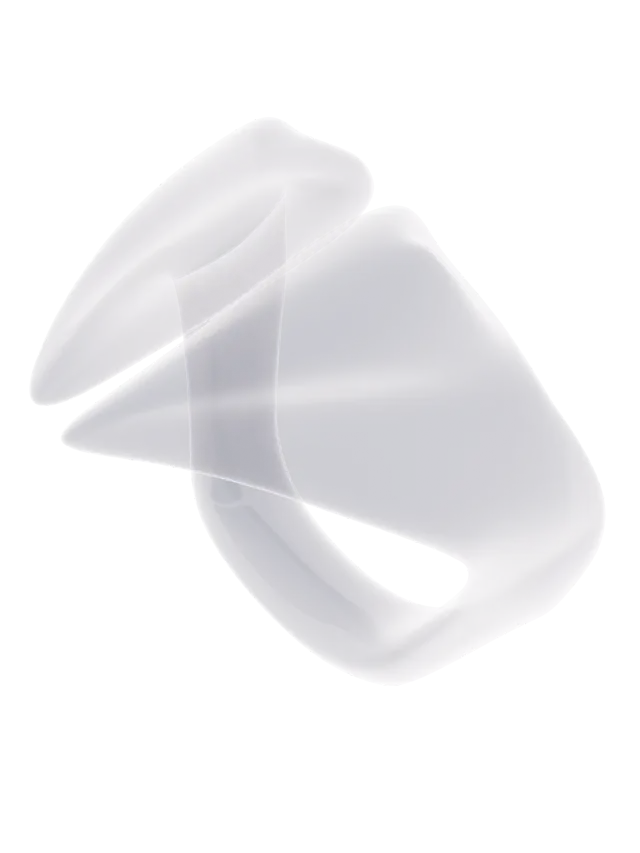
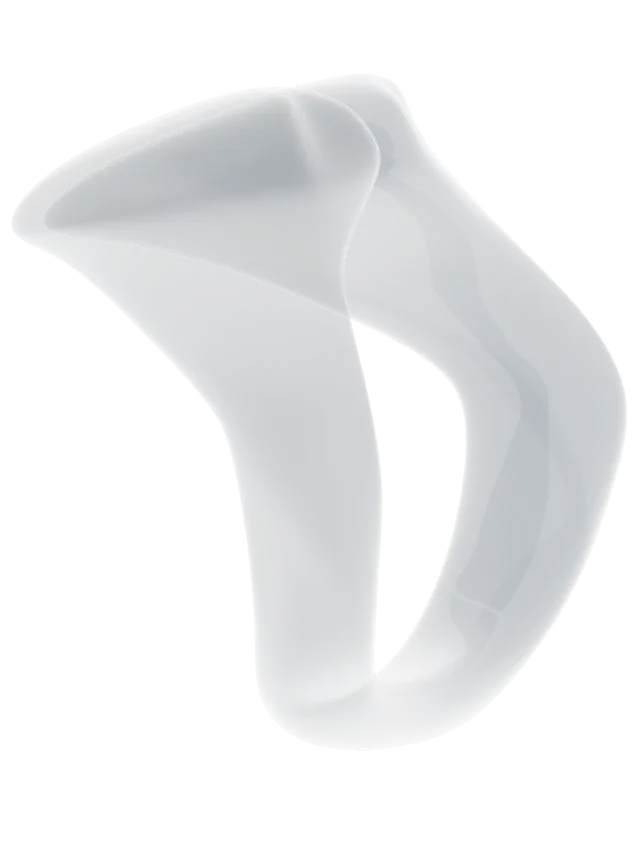
X-ray backdrops: new shots for all ten products, anchored to the model (top edge a share of its width above it), fitted to the screen down to 375px, uncropped on phones, at 0.8 opacity

Changed region(s): [[0.0312, 0.0914, 1.0, 0.8535]]

diff --git a/css/style.css b/css/style.css
@@ -2450,34 +2450,34 @@ body:has(.product-select-bar[hidden]) .product-bottom-veil {
   filter: grayscale(var(--to-specs));
 }
 
-/* The x-ray backdrop: static, sized well past the tile (1.66x, at least 512px)
-   since the source images carry transparent padding; 3:4, centred. Fades with
-   design's controls (--d-on). Source and visibility from js/product.js. */
+/* The x-ray backdrop: 3:4, centred on the model, its top edge --xray-above
+   over the model's box, a share of its width so it scales with it, following
+   the model's lift. A fixed multiple of the model's box, scaled down where its
+   foot would leave the screen, but never under 375px wide. At --xray-opacity,
+   fading with design's controls (--d-on). Source and visibility from
+   js/product.js. */
 .product-design__xray {
-  /* 0.88 at 400px and under, 1.1 at 1440px and over, linear between
-     (tan(atan2(a, b)) is the unitless a / b). */
-  --xray-scale: calc(0.88 + 0.22 * clamp(0, tan(atan2(100vw - 400px, 1040px)), 1));
-  --xray-width: calc(max(512px, calc(var(--tile) * 1.66)) * var(--xray-scale));
-  /* The share of the picture's width the file keeps: 1 on desktop, --xray-crop
-     for phone versions; the box narrows to match, so the artwork keeps its size. */
-  --xray-crop: 1;
+  --xray-opacity: 0.8;
+  /* 6rem at the 375px minimum. */
+  --xray-above-k: 0.256;
+  /* The model's box top on the screen at rest: the frame is centred in the
+     show (100cqh), which ends at the pin's foot. */
+  --model-top: calc(var(--stage-top) + var(--pin-h) - 100cqh / 2 - var(--model-size) / 2);
+  /* The widest x-ray whose foot stays on the screen (its top rises with its width). */
+  --xray-fit: calc((100svh - var(--model-top)) * 3 / (4 - 3 * var(--xray-above-k)));
+  --xray-width: max(375px, min(var(--model-size) * 2.43, 100vw, var(--xray-fit)));
+  --xray-above: calc(var(--xray-width) * var(--xray-above-k));
   position: absolute;
-  top: 50%;
+  top: calc(var(--tile) / 2 - var(--model-size) / 2 - var(--lift) - var(--xray-above));
   left: 50%;
   z-index: 0;
-  transform: translate(-50%, -50%);
-  width: calc(var(--xray-width) * var(--xray-crop));
+  transform: translateX(-50%);
+  width: var(--xray-width);
+  /* Past the screen's edges below 375px, not squeezed to it. */
+  max-width: none;
   height: calc(var(--xray-width) * 4 / 3);
-  object-fit: cover;
   pointer-events: none;
-  opacity: var(--d-on);
-}
-/* Phones: same query as PHONE_QUERY (js/loader.js); --xray-crop is
-   PHONE_CROP.xray (scripts/make-image-variants.js), checked by validate-data. */
-@media (max-width: 640px) and (max-aspect-ratio: 3/5) {
-  .product-design__xray {
-    --xray-crop: 0.85;
-  }
+  opacity: calc(var(--xray-opacity) * var(--d-on));
 }
 
 
@@ -3333,9 +3333,11 @@ body:has(.selection-bar.is-peek-up) .product-select-bar {
     transform: none;
     opacity: 1;
   }
+  /* The model heads the frame; fitted as if scrolled to the header's foot. */
   .product-design__xray {
-    top: calc(var(--tile) / 2);
-    opacity: 1;
+    --xray-fit: calc((100svh - var(--header-height)) * 3 / 4);
+    top: calc(var(--xray-above) * -1);
+    opacity: var(--xray-opacity);
   }
   .product-reset {
     display: none;

diff --git a/scripts/make-image-variants.js b/scripts/make-image-variants.js
@@ -24,19 +24,18 @@ const { ROOT, repoPath, walk, argValue } = require("./helpers");
 const ASSETS_ROOT = join(ROOT, "assets", "series");
 
 // Share of the width a smartphone version keeps, around the centre. Mirrored
-// by --xray-crop (css/style.css) and --hero-crop (series/<slug>/hero.css);
-// validate-data.js checks they match.
-//   xray: a 375-640px phone shows 0.74-0.83 of the backdrop's box; 0.85 clears both.
+// by --hero-crop (series/<slug>/hero.css); validate-data.js checks they match.
 //   hero: a portrait phone (aspect <= 3:5) shows at most 0.6 * 9/16 of it; 0.40 clears that.
-const PHONE_CROP = { xray: 0.85, hero: 0.4 };
+// The x-ray isn't cropped: a phone shows its whole width.
+const PHONE_CROP = { hero: 0.4 };
 
 // { suffix, width|height, crop?, quality }: cropped to the middle `crop` of the
 // width, then resized (never enlarged). Low-res versions are the throwaway
 // first paint, hence the lower quality.
 const XRAY = [
   { suffix: "lo", width: 640, quality: 72 },
-  { suffix: "m", crop: PHONE_CROP.xray, height: 1600, quality: 78 },
-  { suffix: "m_lo", crop: PHONE_CROP.xray, height: 800, quality: 70 }
+  { suffix: "m", height: 1600, quality: 78 },
+  { suffix: "m_lo", height: 800, quality: 70 }
 ];
 const HERO = [
   { suffix: "lo", width: 1280, quality: 74 },

diff --git a/scripts/validate-data.js b/scripts/validate-data.js
@@ -692,7 +692,6 @@ if (existsExactCase("js/helpers.js")) {
   else if (Number(match[1]) !== REFERENCE_SIZE_MM) fail("js/helpers.js", "REFERENCE_SIZE_MM is " + match[1] + " but scripts/helpers.js has " + REFERENCE_SIZE_MM);
 }
 
-checkPhoneConstants("css/style.css", { "xray-crop": PHONE_CROP.xray });
 if (existsExactCase("js/loader.js") && !fs.readFileSync(path.join(ROOT, "js/loader.js"), "utf8").includes(PHONE_QUERY)) {
   fail("js/loader.js", "does not contain the phone query " + PHONE_QUERY);
 }

diff --git a/dev-guidelines/code-guide.md b/dev-guidelines/code-guide.md
@@ -140,7 +140,7 @@ Wherever a rule sets `display`, the `hidden` attribute needs a matching `[hidden
 
 ## 6. Responsive images
 
-The big pictures (the hero, the item x-rays) come in up to four versions: desktop or phone, low or high resolution. The phone versions are **cropped** to the middle of the picture, because a phone only ever shows the middle. That's also why they are chosen in JavaScript from the phone query and not with `srcset`/`sizes`: `sizes` can't say "most of this is off-canvas". Low resolution comes first, and high resolution is swapped in once the page is idle. The crop fractions and the query live in several files (the image script, the stylesheets, the loader, the Node helpers), and `validate-data` checks that they agree.
+The big pictures (the hero, the item x-rays) come in up to four versions: desktop or phone, low or high resolution. The hero's phone versions are **cropped** to the middle of the picture, because a phone only ever shows the middle; the x-rays' are uncropped, since the item page fits the x-ray to the screen. The crop is also why they are chosen in JavaScript from the phone query and not with `srcset`/`sizes`: `sizes` can't say "most of this is off-canvas". Low resolution comes first, and high resolution is swapped in once the page is idle. The crop fraction and the query live in several files (the image script, the stylesheets, the loader, the Node helpers), and `validate-data` checks that they agree.
 
 ## 7. Build, verify, deploy
 

diff --git a/dev-guidelines/item-guide.md b/dev-guidelines/item-guide.md
@@ -161,4 +161,4 @@ With `json-tool`, whose blocking checks keep the catalog whole. By hand means fi
 
 ## 7. Current content
 
-Placeholder content is expected, not a bug. Only Furcula has real prices, a description and photos. Every other product shows "TBD" prices and a placeholder description with no photos, a few aren't placed on the hero's hand yet, and several have no x-ray backdrop. Every product has its model, wireframe, measured geometry and full set of renders.
+Placeholder content is expected, not a bug. Only Furcula has real prices, a description and photos. Every other product shows "TBD" prices and a placeholder description with no photos, and a few aren't placed on the hero's hand yet. Every product has its model, wireframe, measured geometry and full set of renders.
